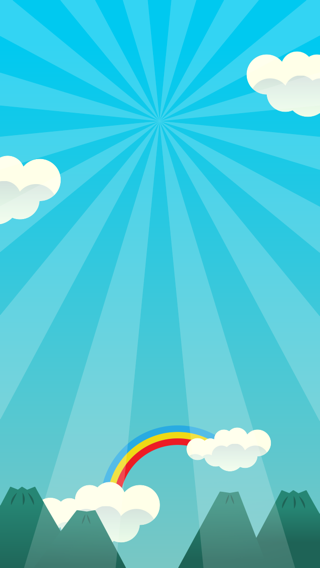
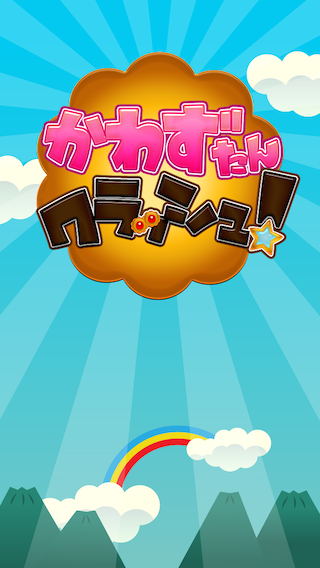
タイトル画面のロゴの位置を修正した

diff --git a/Classes/TitleScene.cpp b/Classes/TitleScene.cpp
@@ -50,10 +50,6 @@ bool TitleScene::init()
     title->setPosition(winSize.width / 2.0, winSize.height / 2.0);
     this->addChild(title);
     
-    auto logo = Sprite::create("logo.png");
-    logo->setPosition(winSize.width / 2.0, winSize.height - 150);
-    this->addChild(logo);
-    
     auto tap = Sprite::create("tapicon.png");
     tap->setPosition(winSize.width / 2.0, winSize.height - 348);
     this->addChild(tap);
